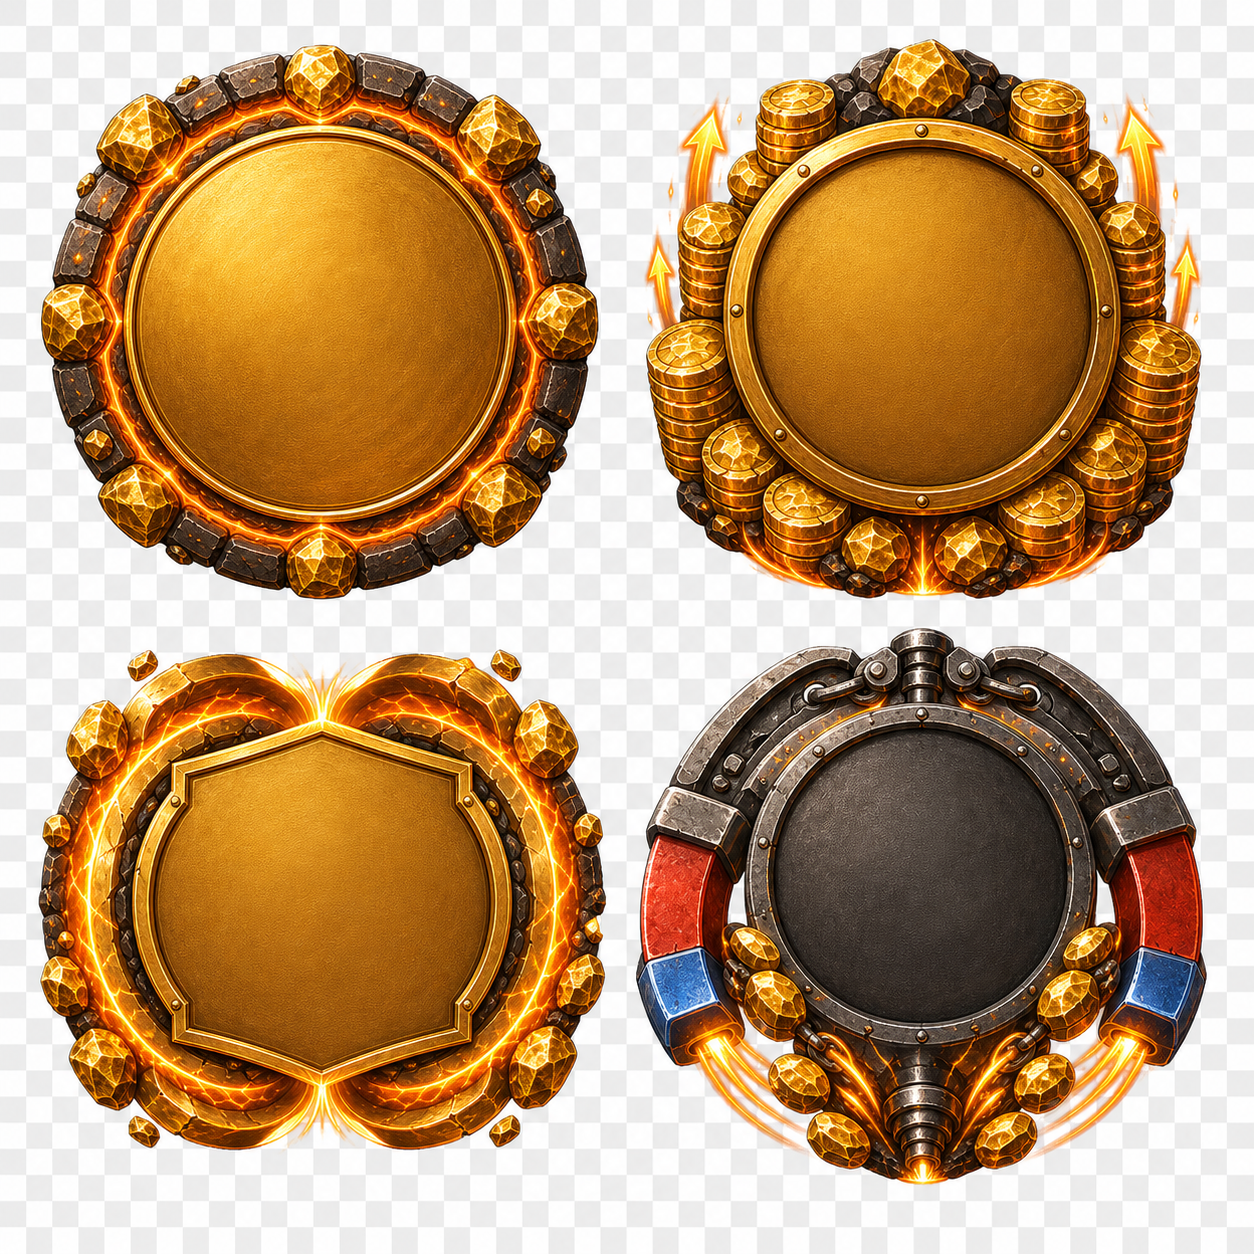
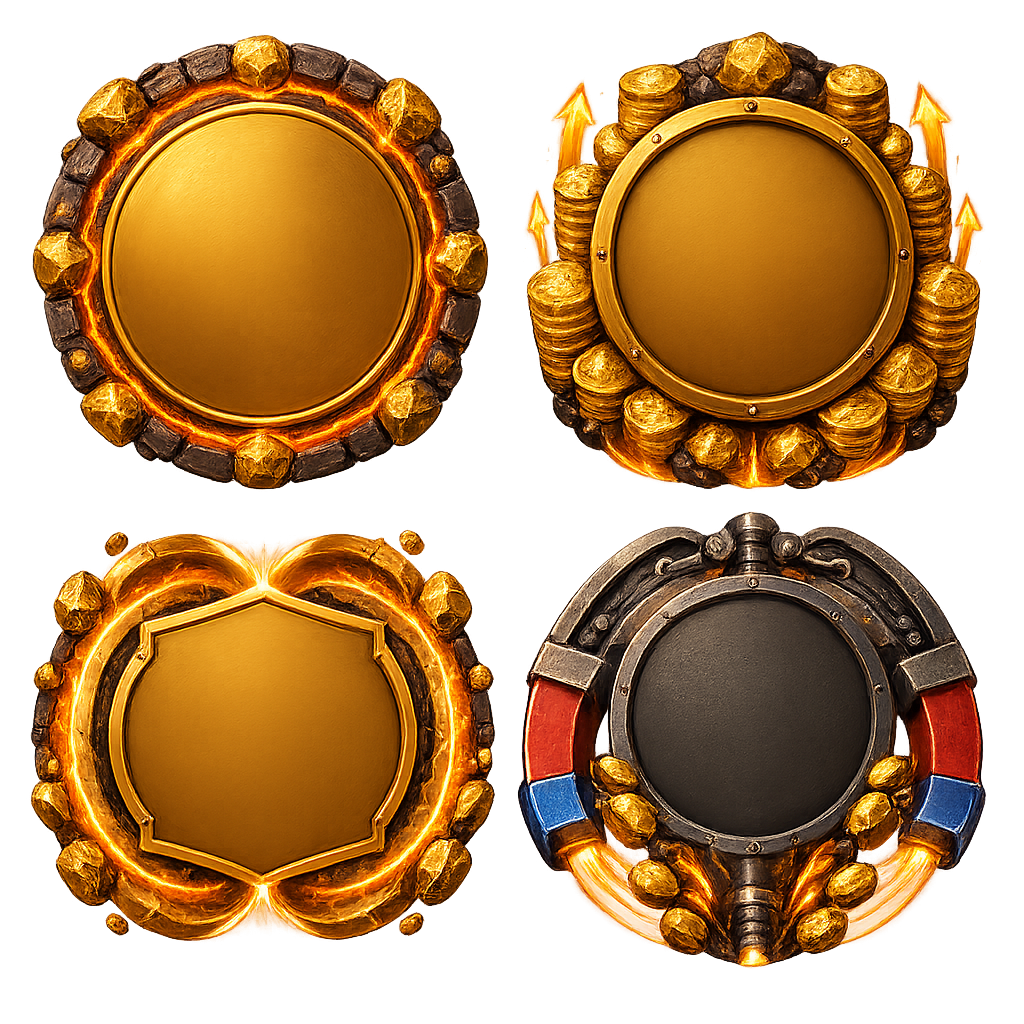
up

Changed region(s): [[0.0312, 0.0312, 0.9688, 0.9688]]

diff --git a/app/pages/games/fireinthehole.vue b/app/pages/games/fireinthehole.vue
@@ -46,6 +46,15 @@ const showAutoSpinModal = ref(false)
 const AUTO_SPIN_OPTIONS = [10, 25, 50, 100, 250]
 let resumeAutoSpin: (() => void) | null = null
 
+// Reel layout constants — kept in sync with the ReelSetBuilder config below
+// and used to derive a scale/margin that keeps the grid centered in the
+// canvas at every container width (see resizePixi).
+const SYMBOL_SIZE = 108
+const SYMBOL_GAP = 8
+const REEL_MARGIN = 36
+const REEL_CONTENT_W = FITH_COLS * SYMBOL_SIZE + (FITH_COLS - 1) * SYMBOL_GAP
+const CANVAS_DESIGN_SIZE = REEL_CONTENT_W + REEL_MARGIN * 2
+
 let pixiApp: import('pixi.js').Application | null = null
 let reelSet: import('pixi-reels').ReelSet | null = null
 let effectsLayer: import('pixi.js').Container | null = null
@@ -394,8 +403,8 @@ async function initPixi() {
 
   pixiApp = new Application()
   await pixiApp.init({
-    width: 760,
-    height: 760,
+    width: CANVAS_DESIGN_SIZE,
+    height: CANVAS_DESIGN_SIZE,
     backgroundAlpha: 0,
     antialias: true,
     autoDensity: true,
@@ -410,8 +419,8 @@ async function initPixi() {
   reelSet = new ReelSetBuilder()
     .reels(FITH_COLS)
     .visibleRows(FITH_ROWS)
-    .symbolSize(108, 108)
-    .symbolGap(8, 8)
+    .symbolSize(SYMBOL_SIZE, SYMBOL_SIZE)
+    .symbolGap(SYMBOL_GAP, SYMBOL_GAP)
     .bufferSymbols(1)
     .symbols((registry) => {
       for (const id of ALL_SYMBOL_IDS) {
@@ -464,7 +473,7 @@ async function initPixi() {
     .ticker(pixiApp.ticker)
     .build()
 
-  reelSet.position.set(36, 36)
+  reelSet.position.set(REEL_MARGIN, REEL_MARGIN)
   pixiApp.stage.addChild(reelSet)
 
   dividerLayer = new Graphics()
@@ -506,16 +515,19 @@ async function initPixi() {
 function resizePixi() {
   if (!pixiApp || !reelSet || !canvasHost.value) return
 
-  const size = Math.max(320, Math.min(canvasHost.value.clientWidth, 760))
+  const size = Math.max(320, Math.min(canvasHost.value.clientWidth, CANVAS_DESIGN_SIZE))
   pixiApp.renderer.resize(size, size)
 
-  const contentSize = 720
-  const scale = size / contentSize
+  const scale = size / CANVAS_DESIGN_SIZE
   reelSet.scale.set(scale)
 
-  if (effectsLayer) effectsLayer.scale.set(scale)
-  if (bonusValueLayer) bonusValueLayer.scale.set(scale)
-  if (dividerLayer) dividerLayer.scale.set(scale)
+  // effectsLayer/bonusValueLayer/dividerLayer stay unscaled (1:1 with the
+  // canvas) — every point drawn into them is computed in real screen pixels
+  // via reelSet.position + cellBounds * reelSet.scale, see cellCenter() and
+  // drawMineBoundary(). Scaling the layers on top of that double-applies the
+  // zoom and was the source of the grid drifting off-center.
+  const offset = REEL_MARGIN * scale
+  reelSet.position.set(offset, offset)
   drawMineBoundary()
 }
 
@@ -523,9 +535,10 @@ function cellCenter(cell: FireCell) {
   if (!reelSet) return { x: 0, y: 0 }
 
   const bounds = reelSet.getCellBounds(cell.col, cell.row)
+  const s = reelSet.scale.x
   return {
-    x: reelSet.x + bounds.x + bounds.width / 2,
-    y: reelSet.y + bounds.y + bounds.height / 2
+    x: reelSet.x + (bounds.x + bounds.width / 2) * s,
+    y: reelSet.y + (bounds.y + bounds.height / 2) * s
   }
 }
 
@@ -535,10 +548,59 @@ async function spawnBlast(cell: FireCell, bomb = false) {
   const { Graphics } = await import('pixi.js')
   const { gsap } = await import('gsap')
   const center = cellCenter(cell)
-  const count = bomb ? 40 : 10
-  const colors = bomb ? [0xffedd5, 0xfb923c, 0xef4444, 0xfacc15, 0xfdba74] : [0xd4d4d8, 0xa1a1aa, 0xffffff]
+  const count = bomb ? 34 : 10
+  const colors = bomb ? [0xfff7ed, 0xfacc15, 0xfb923c, 0xef4444] : [0xd4d4d8, 0xa1a1aa, 0xffffff]
+  const debrisColors = [0x27272a, 0x3f3f46, 0x18181b]
 
   if (bomb) {
+    // Dark soot puffs linger a beat longer than the flash — breaks up the
+    // "uniform bright circle" look with some grit/weight.
+    for (let i = 0; i < 6; i++) {
+      const smoke = new Graphics()
+      const size = 9 + Math.random() * 13
+      smoke.circle(0, 0, size)
+      smoke.fill({ color: debrisColors[i % debrisColors.length]!, alpha: 0.32 + Math.random() * 0.2 })
+      smoke.position.set(center.x + (Math.random() - 0.5) * 12, center.y + (Math.random() - 0.5) * 12)
+      smoke.scale.set(0.3)
+      effectsLayer.addChild(smoke)
+
+      const angle = Math.random() * Math.PI * 2
+      const dist = 18 + Math.random() * 36
+      const dur = 0.85 + Math.random() * 0.3
+
+      gsap.to(smoke.position, {
+        x: smoke.x + Math.cos(angle) * dist,
+        y: smoke.y + Math.sin(angle) * dist - 16,
+        duration: dur,
+        ease: 'power1.out'
+      })
+      gsap.to(smoke.scale, {
+        x: 1.5 + Math.random() * 0.7,
+        y: 1.5 + Math.random() * 0.7,
+        duration: dur,
+        ease: 'power1.out'
+      })
+      gsap.to(smoke, {
+        alpha: 0,
+        duration: dur,
+        delay: 0.06,
+        ease: 'power1.in',
+        onComplete: () => smoke.destroy()
+      })
+    }
+
+    // Hot white-core flash right at the point of impact.
+    const flash = new Graphics()
+    flash.circle(0, 0, 22)
+    flash.fill({ color: 0xfffbeb, alpha: 1 })
+    flash.position.set(center.x, center.y)
+    flash.scale.set(0.15)
+    flash.blendMode = 'add'
+    effectsLayer.addChild(flash)
+
+    gsap.to(flash.scale, { x: 1.3, y: 1.3, duration: 0.14, ease: 'power2.out' })
+    gsap.to(flash, { alpha: 0, duration: 0.16, ease: 'power2.in', onComplete: () => flash.destroy() })
+
     const ring = new Graphics()
     ring.circle(0, 0, 34)
     ring.stroke({ color: 0xfb923c, alpha: 1, width: 7 })
@@ -564,38 +626,46 @@ async function spawnBlast(cell: FireCell, bomb = false) {
   }
 
   for (let i = 0; i < count; i++) {
+    // Every fifth particle is a tumbling charcoal debris chunk instead of a
+    // glowing spark — non-additive and gravity-affected for contrast against
+    // the bright embers.
+    const isDebris = bomb && i % 5 === 0
     const particle = new Graphics()
-    const color = colors[i % colors.length]!
+    const color = isDebris ? debrisColors[i % debrisColors.length]! : colors[i % colors.length]!
     const angle = (Math.PI * 2 * i) / count + Math.random() * 0.35
-    // Every third particle is a bigger, slower "ember" instead of a fast spark
-    // — mixed sizes/speeds read as an explosion instead of a uniform ring.
-    const isEmber = i % 3 === 0
+    const isEmber = !isDebris && i % 3 === 0
     const distance = (bomb ? 88 : 38) + Math.random() * (bomb ? 90 : 26)
-    const size = isEmber
-      ? (bomb ? 6 + Math.random() * 7 : 3 + Math.random() * 3)
-      : (bomb ? 2 + Math.random() * 4 : 1.5 + Math.random() * 2.5)
-    const duration = (bomb ? 0.5 : 0.3) + Math.random() * (bomb ? 0.24 : 0.16)
+    const size = isDebris
+      ? 3 + Math.random() * 4
+      : isEmber
+        ? (bomb ? 6 + Math.random() * 7 : 3 + Math.random() * 3)
+        : (bomb ? 2 + Math.random() * 4 : 1.5 + Math.random() * 2.5)
+    const duration = (bomb ? 0.5 : 0.3) + Math.random() * (bomb ? 0.3 : 0.16)
+    const rotation = angle + Math.random() * 0.6
 
-    if (bomb && i % 5 === 0) {
-      particle.roundRect(-size * 0.5, -size * 2.3, size, size * 4.6, size)
-      particle.rotation = angle
+    if (isDebris) {
+      particle.roundRect(-size * 0.5, -size * 1.6, size, size * 3.2, size * 0.4)
+      particle.rotation = rotation
     } else {
       particle.circle(0, 0, size)
     }
-    particle.fill({ color, alpha: isEmber ? 0.55 : 0.95 })
-    particle.blendMode = 'add'
+    particle.fill({ color, alpha: isDebris ? 0.85 : isEmber ? 0.55 : 0.95 })
+    particle.blendMode = isDebris ? 'normal' : 'add'
     particle.position.set(center.x, center.y)
     effectsLayer.addChild(particle)
 
     gsap.to(particle.position, {
       x: center.x + Math.cos(angle) * distance,
-      y: center.y + Math.sin(angle) * distance,
+      y: center.y + Math.sin(angle) * distance + (isDebris ? 20 : 0),
       duration,
-      ease: 'power3.out'
+      ease: isDebris ? 'power2.out' : 'power3.out'
     })
+    if (isDebris) {
+      gsap.to(particle, { rotation: rotation + (Math.random() - 0.5) * 6, duration, ease: 'power1.out' })
+    }
     gsap.to(particle.scale, {
-      x: isEmber ? 0.55 : 0.2,
-      y: isEmber ? 0.55 : 0.2,
+      x: isDebris ? 0.7 : isEmber ? 0.55 : 0.2,
+      y: isDebris ? 0.7 : isEmber ? 0.55 : 0.2,
       duration,
       ease: 'power2.in'
     })
@@ -630,21 +700,22 @@ function drawMineBoundary() {
   const first = reelSet.getCellBounds(0, 0)
   const second = reelSet.getCellBounds(0, 1)
   const last = reelSet.getCellBounds(FITH_COLS - 1, FITH_ROWS - 1)
-  const rowPitch = second.y - first.y
-  const bottom = reelSet.y + last.y + last.height
-  const left = reelSet.x + first.x
-  const right = reelSet.x + last.x + last.width
+  const s = reelSet.scale.x
+  const rowPitch = (second.y - first.y) * s
+  const bottom = reelSet.y + (last.y + last.height) * s
+  const left = reelSet.x + first.x * s
+  const right = reelSet.x + (last.x + last.width) * s
   const lockedTop = boundaryVisualLines >= FITH_ROWS
     ? bottom
-    : reelSet.y + first.y + boundaryVisualLines * rowPitch - 8
+    : reelSet.y + first.y * s + boundaryVisualLines * rowPitch - 8 * s
 
   if (boundaryVisualLines < FITH_ROWS) {
-    dividerLayer.rect(left - 2, lockedTop, right - left + 4, bottom - lockedTop)
+    dividerLayer.rect(left - 2 * s, lockedTop, right - left + 4 * s, bottom - lockedTop)
     dividerLayer.fill({ color: 0x18181b, alpha: 0.88 })
 
-    dividerLayer.roundRect(left - 6, lockedTop - 3, right - left + 12, 7, 7)
+    dividerLayer.roundRect(left - 6 * s, lockedTop - 3 * s, right - left + 12 * s, 7 * s, 7 * s)
     dividerLayer.fill({ color: 0x10b981, alpha: 1 })
-    dividerLayer.roundRect(left - 6, lockedTop + 5, right - left + 12, 2, 2)
+    dividerLayer.roundRect(left - 6 * s, lockedTop + 5 * s, right - left + 12 * s, 2 * s, 2 * s)
     dividerLayer.fill({ color: 0x064e3b, alpha: 0.62 })
   }
 }
@@ -723,20 +794,21 @@ function clearBonusValues() {
 }
 
 async function drawBonusValues(coins: FireBonusDrop[]) {
-  if (!bonusValueLayer) return
+  if (!bonusValueLayer || !reelSet) return
 
-  const { Container, Graphics, Sprite, Text } = await import('pixi.js')
+  const { Container, Sprite, Text } = await import('pixi.js')
+  const s = reelSet.scale.x
 
   clearBonusValues()
 
   for (const coin of coins) {
-    const bounds = reelSet?.getCellBounds(coin.col, coin.row)
+    const bounds = reelSet.getCellBounds(coin.col, coin.row)
     if (!bounds) continue
 
     const tex = TEX[coin.symbol]
+    const glowColor = coin.symbol === 'collector' ? 0xf87171 : coin.symbol === 'boost' ? 0x6ee7b7 : 0xfacc15
     const holder = new Container()
     const sprite = new Sprite()
-    const bg = new Graphics()
     const labelText = coin.symbol === 'boost'
       ? `+${formatNumber(coin.multiplier, false)}x`
       : `${formatNumber(coin.multiplier, false)}x`
@@ -745,14 +817,15 @@ async function drawBonusValues(coins: FireBonusDrop[]) {
       style: {
         fill: 0xfffbeb,
         fontFamily: 'Inter, ui-sans-serif, system-ui',
-        fontSize: coin.multiplier >= 1000 || coin.symbol === 'boost' ? 22 : 26,
+        fontSize: coin.multiplier >= 1000 || coin.symbol === 'boost' ? 18 : 20,
         fontWeight: '900',
-        stroke: { color: coin.symbol === 'collector' ? 0x7f1d1d : coin.symbol === 'boost' ? 0x064e3b : 0x713f12, width: 5 }
+        stroke: { color: coin.symbol === 'collector' ? 0x7f1d1d : coin.symbol === 'boost' ? 0x064e3b : 0x713f12, width: 4 },
+        dropShadow: { color: glowColor, blur: 6, distance: 0, alpha: 0.85 }
       }
     })
 
-    const width = bounds.width
-    const height = bounds.height
+    const width = bounds.width * s
+    const height = bounds.height * s
 
     if (tex) {
       const maxSize = Math.min(width, height) * 0.92
@@ -763,14 +836,10 @@ async function drawBonusValues(coins: FireBonusDrop[]) {
       sprite.position.set(width * 0.5, height * 0.5)
     }
 
-    bg.roundRect(width * 0.5 - 42, height * 0.5 - 20, 84, 40, 20)
-    bg.fill({ color: coin.symbol === 'collector' ? 0xbe123c : coin.symbol === 'boost' ? 0x047857 : 0x92400e, alpha: 0.88 })
-    bg.stroke({ color: 0xfef3c7, alpha: 0.9, width: 2 })
-
     label.anchor.set(0.5)
     label.position.set(width * 0.5, height * 0.5)
-    holder.addChild(sprite, bg, label)
-    holder.position.set(reelSet!.x + bounds.x, reelSet!.y + bounds.y)
+    holder.addChild(sprite, label)
+    holder.position.set(reelSet.x + bounds.x * s, reelSet.y + bounds.y * s)
     bonusValueLayer.addChild(holder)
   }
 }
@@ -1019,18 +1088,21 @@ async function playBonusFeature(bonus: FireBonusResult) {
 }
 
 async function flashUnlockedRows(rows: number[]) {
-  if (!effectsLayer || rows.length === 0) return
+  if (!effectsLayer || !reelSet || rows.length === 0) return
 
   const { Graphics } = await import('pixi.js')
   const { gsap } = await import('gsap')
+  const s = reelSet.scale.x
 
   for (const row of rows) {
     for (let col = 0; col < FITH_COLS; col++) {
-      const bounds = reelSet?.getCellBounds(col, row)
+      const bounds = reelSet.getCellBounds(col, row)
       if (!bounds) continue
 
+      const width = bounds.width * s
+      const height = bounds.height * s
       const flash = new Graphics()
-      flash.roundRect(reelSet!.x + bounds.x + 5, reelSet!.y + bounds.y + 5, bounds.width - 10, bounds.height - 10, 14)
+      flash.roundRect(reelSet.x + bounds.x * s + 5 * s, reelSet.y + bounds.y * s + 5 * s, width - 10 * s, height - 10 * s, 14 * s)
       flash.stroke({ color: 0xfb923c, alpha: 0.95, width: 5 })
       effectsLayer.addChild(flash)
 